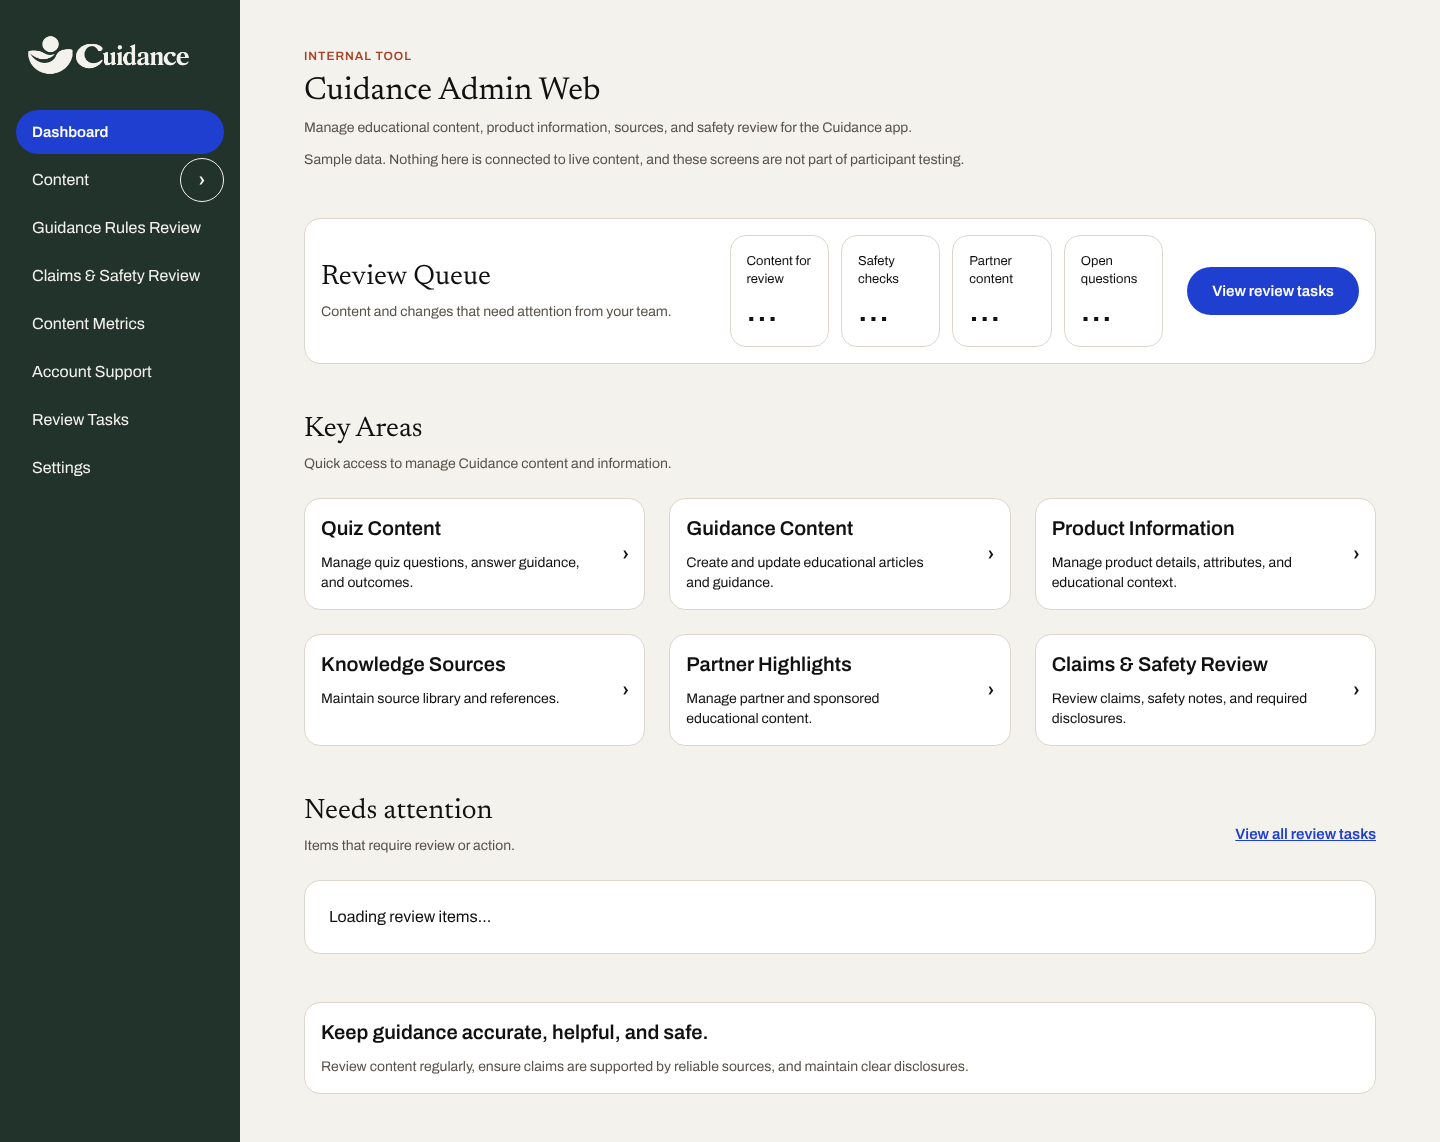
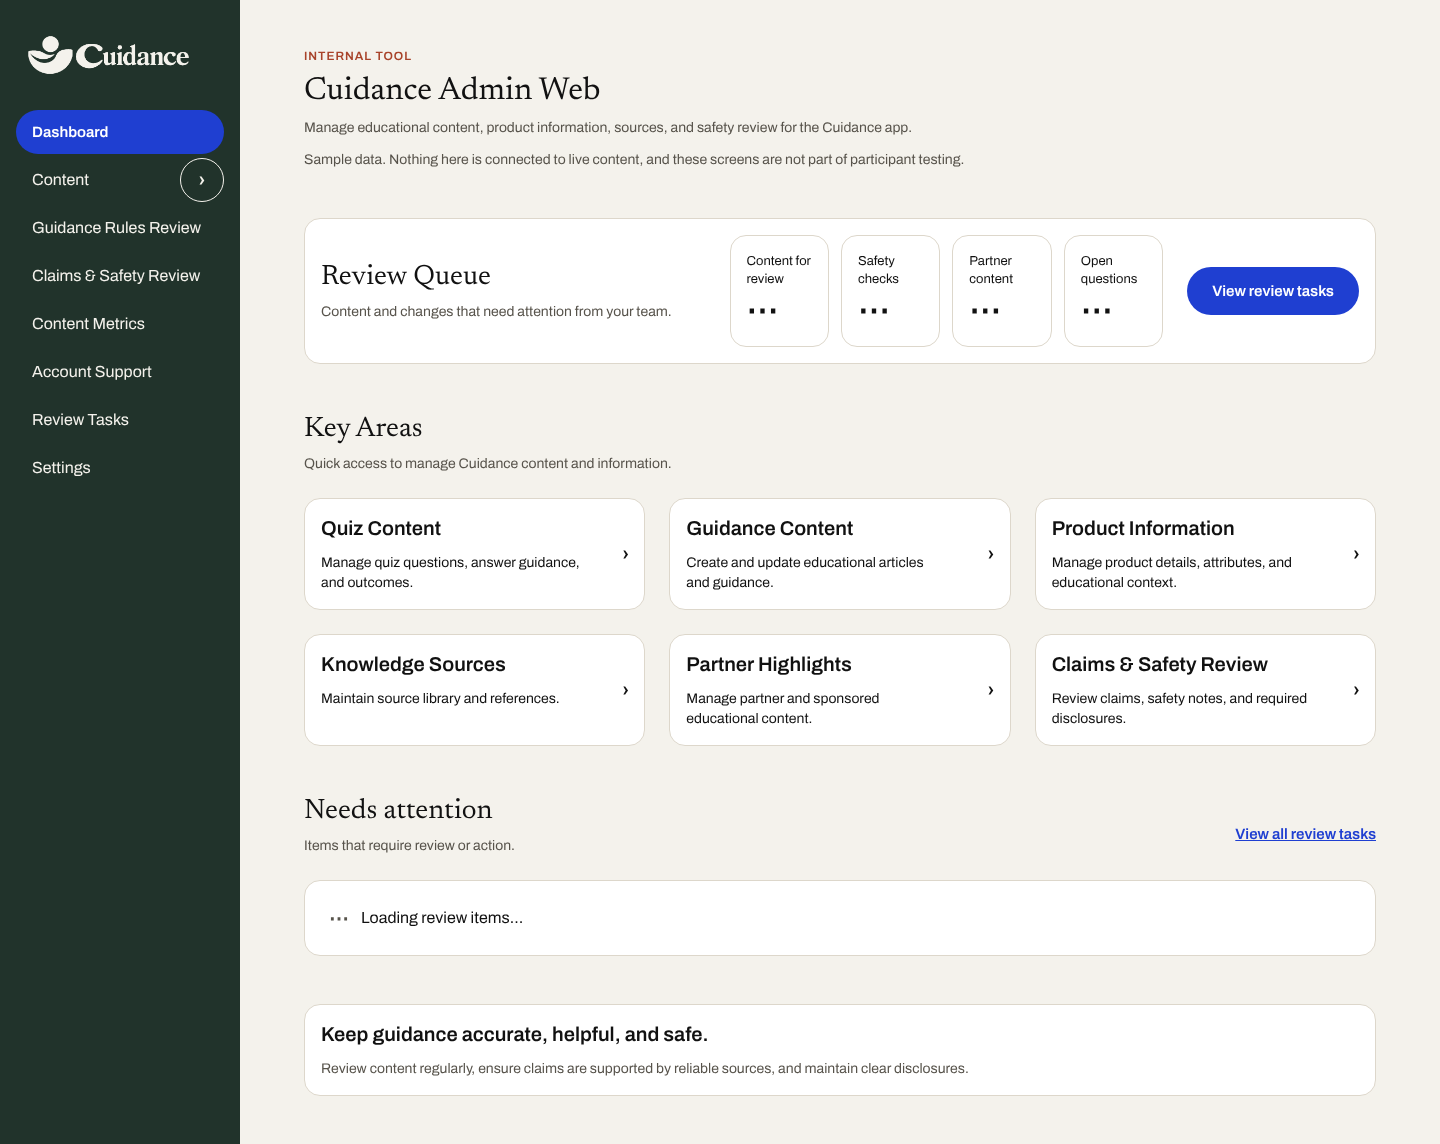
Fix empty-state symbol spacing and record symbol test results
- Empty-state message lays its ◌ symbol out beside the text
- Recaptured the loading, empty and error screenshots (⋯, ◌, ⚠)
- Test results and font fallback note in the implementation doc

Claude-Session: https://claude.ai/code/session_01G2wYwUJdDpMZsqBVJSwRsJ

diff --git a/admin-web/app/_dashboard/dashboard.module.css b/admin-web/app/_dashboard/dashboard.module.css
@@ -194,6 +194,7 @@
 
 /* Approved state symbol beside its message (board State Key: ◌ Empty, ⋯ Loading) */
 .symbolPanel {
+  display: flex;
   flex-direction: row;
   align-items: center;
   gap: var(--space-12);

diff --git a/docs/Week-10/dashboard-screen-implementation.md b/docs/Week-10/dashboard-screen-implementation.md
@@ -148,6 +148,7 @@ The rule is in `openQuestionCount()` in `shared/content/dashboard-review-queue.t
 | Page loads | 304 browser loads: 2 builds × 19 pages (the Dashboard in 4 states, every other route, `/dev/` and the 404 page) × 1440, 834, 390 and 320 px × light and dark |
 | Dashboard states | Right counts in every run (ready 3, 1, 1, 0; empty 0, 0, 0, 0; loading and error "…"), 5 table rows only when ready, the loading status message, the error alert, 6 Key Areas cards, and exactly one primary action (View review tasks). No em dashes. **Re-run after the Open questions change: 304 loads, 0 problems.** Open questions showed 0 in every ready and empty view, in both builds, all four widths and both modes |
 | Open questions rule | `openQuestionCount()` checked directly: shipped seed 0, no items 0, two items marked 2, all five marked 5 |
+| Approved symbols (Oct 27, 2026) | Full run after the change: **304 loads, 0 problems** (2 builds × 19 pages × 4 widths × 2 modes). Checked: ⋯ on the loading counts and the loading message; ⚠ on the error counts and alert; ◌ only in the empty state; every panel and label symbol hidden from screen readers. After a spacing fix to the empty-state message, the Dashboard's 4 states and Review Tasks were re-run: **80 loads, 0 problems**. Keyboard order, links and back links unchanged |
 | Light and dark mode | Token backgrounds, matching sidebar and logo, provisional labels readable in both |
 | Horizontal overflow | None in any run. At 390 and 320 px the table scrolls inside its own panel |
 | 44 px targets | No interactive element under 44 × 44 px. Each Key Areas card is one large link target |
@@ -239,6 +240,8 @@ They're defined once in `shared/content/ui-symbols.ts`. They're text symbols, no
 | ◎ Focus, □ Default, ⊘ Disabled | Not used on the Dashboard: focus shows as the 2 px ring, and the Dashboard has no disabled controls | Not applicable |
 
 **Shared components that already use these symbols** (unchanged): Toast (✓, ⚠), Field and Checkbox errors (⚠, ✓), DisclosureLabel (◆) and the back links (‹).
+
+**Font note:** Archivo and Newsreader don't include ◌ or ⋯, so the browser draws them with a system fallback font. ◌ looks a little small as a result. Nothing was redrawn.
 
 **Chevron "›":** the Key Areas cards and the sidebar Content toggle show "›". It isn't in the approved symbol list above, but the board's Core UI Components use it on result-card links ("Why this fits you ›", "View product ›"). It's kept as is, and **needs Team 03 confirmation**.
 
